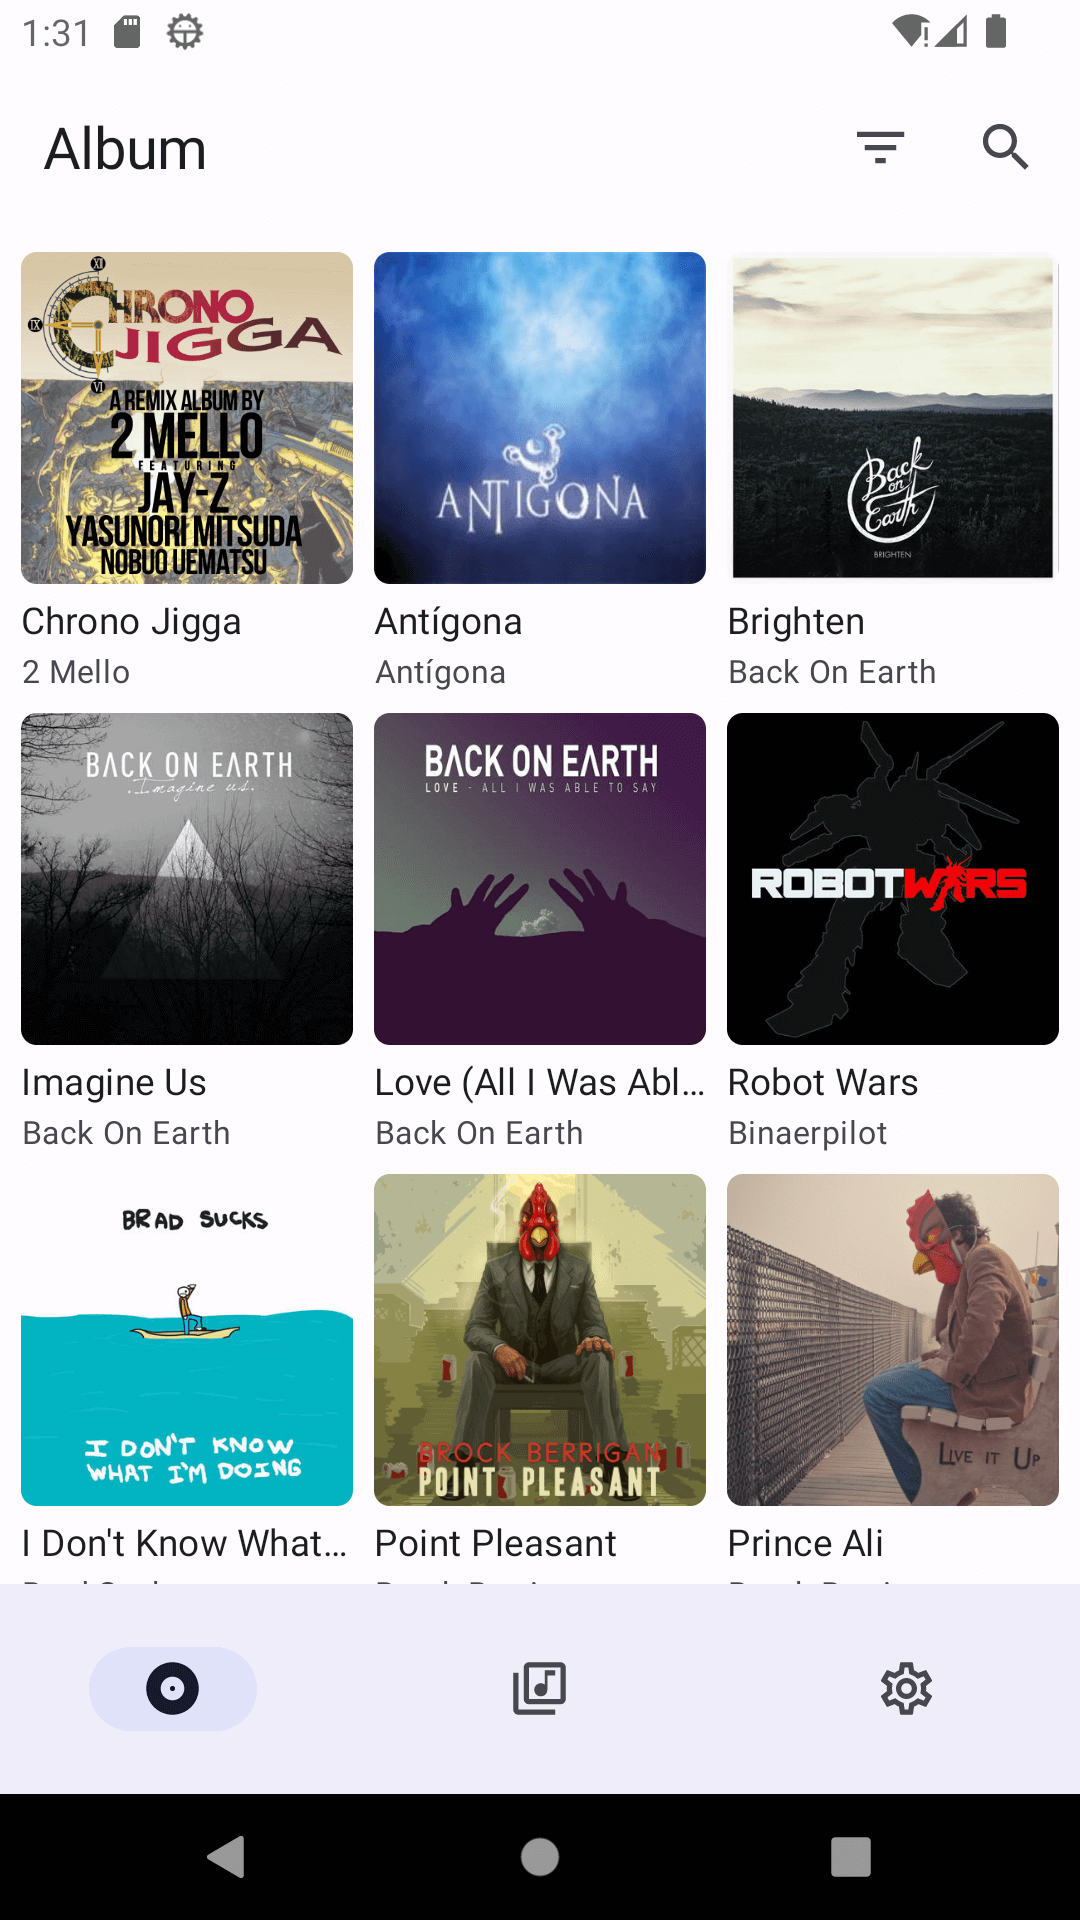
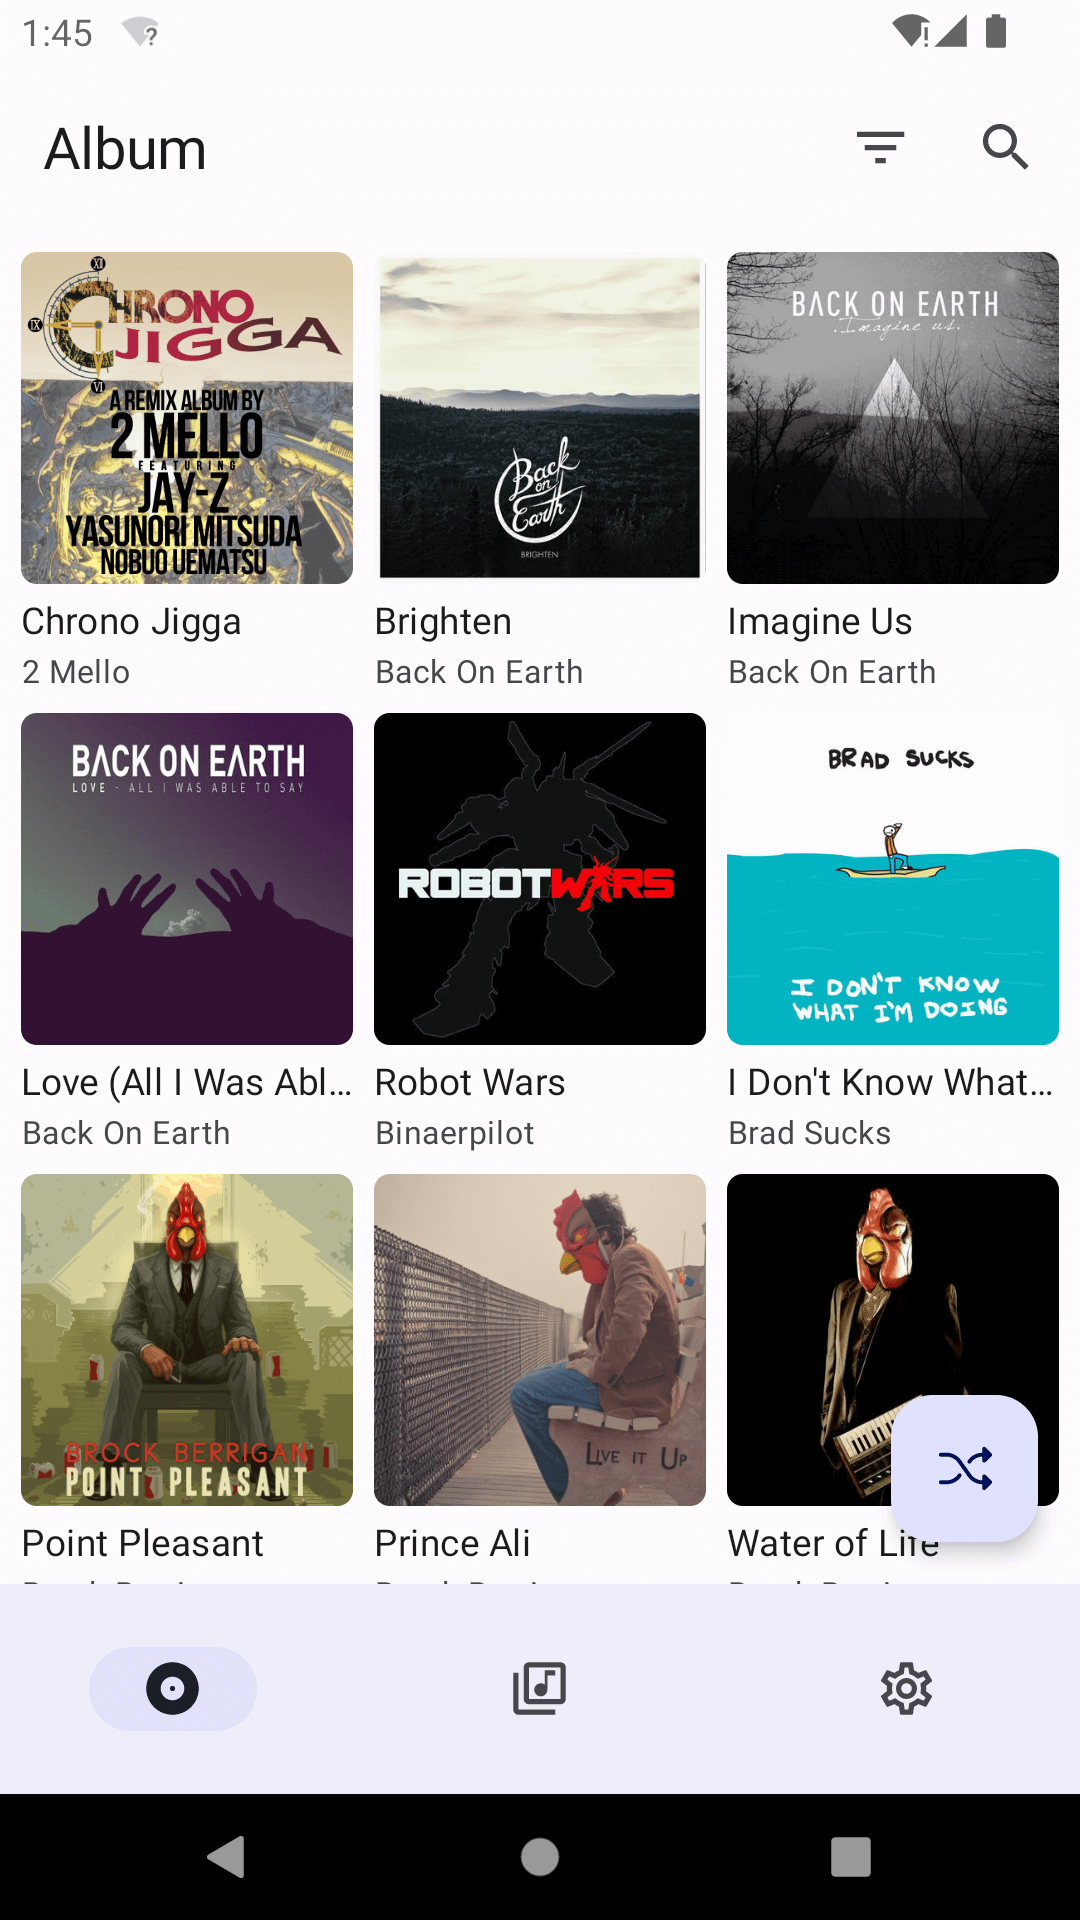
Upgrade version to 1.3.0

diff --git a/README.md b/README.md
@@ -29,6 +29,7 @@ SubTune is a free and open source music streaming Android client for Subsonic AP
 - Dark theme
 - Dynamic color
 - Lyrics
+- Random play of songs in the library
 
 ## License
 

diff --git a/README_CN.md b/README_CN.md
@@ -29,6 +29,7 @@ SubTune 是一个免费的开源音乐流媒体 Android 客户端，适用于 Su
 - 深色模式
 - 动态颜色
 - 歌词
+- 随机播放曲库中的歌曲
 
 ## License
 
